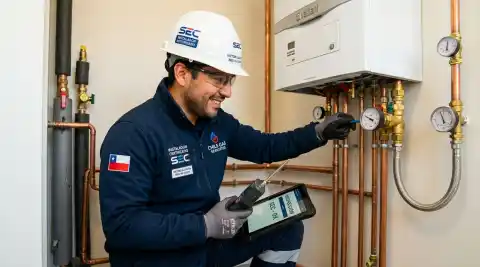
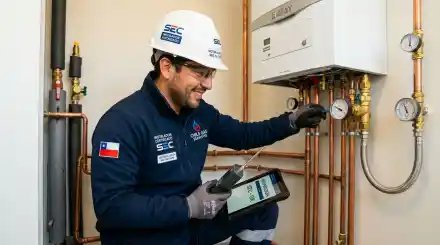
perf(images): compress all images to v3 featherweight footprint, eliminate forced reflows and load slides strictly on demand

diff --git a/resources/views/home.blade.php b/resources/views/home.blade.php
@@ -23,50 +23,50 @@
 <section class="relative overflow-hidden bg-slate-950 text-white pt-12 pb-20 lg:pt-20 lg:pb-28" x-data="secVerificationApp">
     
     <!-- Hero Background Image Slider Carousel (Vibrant, Clear & Human) -->
-    <div class="absolute inset-0 z-0 pointer-events-none" x-data="{ currentSlide: 0, loadOthers: false }" x-init="setTimeout(() => { loadOthers = true }, 2500); setInterval(() => { currentSlide = (currentSlide + 1) % 3 }, 5000)">
+    <div class="absolute inset-0 z-0 pointer-events-none" x-data="{ currentSlide: 0 }" x-init="setInterval(() => { currentSlide = (currentSlide + 1) % 3 }, 5000)">
         <!-- Slide 1: Gas SEC Technician (LCP - Immediate Paint with Responsive srcset) -->
         <div class="absolute inset-0 transition-opacity duration-1000 ease-in-out opacity-85 overflow-hidden"
              :class="{ 'opacity-85 scale-105': currentSlide === 0, 'opacity-0 scale-100': currentSlide !== 0 }"
              style="transition: opacity 1.5s ease-in-out, transform 8s ease-out;">
             <img src="{{ asset('images/slider/hero_gas_mobile.webp') }}"
-                 srcset="{{ asset('images/slider/hero_gas_mobile.webp') }} 480w, {{ asset('images/slider/hero_gas.webp') }} 960w"
-                 sizes="(max-width: 640px) 100vw, 960px"
+                 srcset="{{ asset('images/slider/hero_gas_mobile.webp') }} 440w, {{ asset('images/slider/hero_gas.webp') }} 800w"
+                 sizes="(max-width: 640px) 100vw, 800px"
                  alt="Profesionales Gas SEC Acreditados"
                  fetchpriority="high"
                  loading="eager"
-                 width="960"
-                 height="535"
+                 width="800"
+                 height="446"
                  class="w-full h-full object-cover">
         </div>
 
-        <!-- Slide 2: Agua & Sanitario Engineer (Deferred) -->
+        <!-- Slide 2: Agua & Sanitario Engineer (Deferred strictly until slide 2 triggers) -->
         <div class="absolute inset-0 transition-opacity duration-1000 ease-in-out opacity-0 overflow-hidden"
              :class="{ 'opacity-85 scale-105': currentSlide === 1, 'opacity-0 scale-100': currentSlide !== 1 }"
              style="transition: opacity 1.5s ease-in-out, transform 8s ease-out;">
-            <template x-if="loadOthers">
-                <img src="{{ asset('images/slider/hero_water.webp') }}"
-                     srcset="{{ asset('images/slider/hero_water_mobile.webp') }} 540w, {{ asset('images/slider/hero_water.webp') }} 1000w"
-                     sizes="100vw"
+            <template x-if="currentSlide === 1 || currentSlide === 2">
+                <img src="{{ asset('images/slider/hero_water_mobile.webp') }}"
+                     srcset="{{ asset('images/slider/hero_water_mobile.webp') }} 440w, {{ asset('images/slider/hero_water.webp') }} 800w"
+                     sizes="(max-width: 640px) 100vw, 800px"
                      alt="Ingeniería y Servicios Sanitarios"
                      loading="lazy"
-                     width="1000"
-                     height="558"
+                     width="800"
+                     height="446"
                      class="w-full h-full object-cover">
             </template>
         </div>
 
-        <!-- Slide 3: Energías Renovables Specialist (Deferred) -->
+        <!-- Slide 3: Energías Renovables Specialist (Deferred strictly until slide 3 triggers) -->
         <div class="absolute inset-0 transition-opacity duration-1000 ease-in-out opacity-0 overflow-hidden"
              :class="{ 'opacity-85 scale-105': currentSlide === 2, 'opacity-0 scale-100': currentSlide !== 2 }"
              style="transition: opacity 1.5s ease-in-out, transform 8s ease-out;">
-            <template x-if="loadOthers">
-                <img src="{{ asset('images/slider/hero_solar.webp') }}"
-                     srcset="{{ asset('images/slider/hero_solar_mobile.webp') }} 540w, {{ asset('images/slider/hero_solar.webp') }} 1000w"
-                     sizes="100vw"
+            <template x-if="currentSlide === 2">
+                <img src="{{ asset('images/slider/hero_solar_mobile.webp') }}"
+                     srcset="{{ asset('images/slider/hero_solar_mobile.webp') }} 440w, {{ asset('images/slider/hero_solar.webp') }} 800w"
+                     sizes="(max-width: 640px) 100vw, 800px"
                      alt="Energías Renovables y Solar"
                      loading="lazy"
-                     width="1000"
-                     height="558"
+                     width="800"
+                     height="446"
                      class="w-full h-full object-cover">
             </template>
         </div>

diff --git a/resources/views/layouts/app.blade.php b/resources/views/layouts/app.blade.php
@@ -363,14 +363,20 @@
 
             if (progressBarVertical || backToTopBtn) {
                 let scrollScheduled = false;
+                let cachedTotalHeight = 0;
+                const updateHeight = () => {
+                    cachedTotalHeight = Math.max(1, document.documentElement.scrollHeight - window.innerHeight);
+                };
+                window.addEventListener('resize', updateHeight, { passive: true });
+                setTimeout(updateHeight, 500);
+
                 window.addEventListener('scroll', () => {
                     if (!scrollScheduled) {
                         requestAnimationFrame(() => {
-                            const scrollPos = window.scrollY;
-                            const totalHeight = document.documentElement.scrollHeight - window.innerHeight;
+                            const scrollPos = window.pageYOffset || document.documentElement.scrollTop;
 
-                            if (totalHeight > 0 && progressBarVertical) {
-                                progressBarVertical.style.height = (scrollPos / totalHeight * 100) + '%';
+                            if (progressBarVertical && cachedTotalHeight > 0) {
+                                progressBarVertical.style.height = (scrollPos / cachedTotalHeight * 100) + '%';
                             }
 
                             if (backToTopBtn) {
